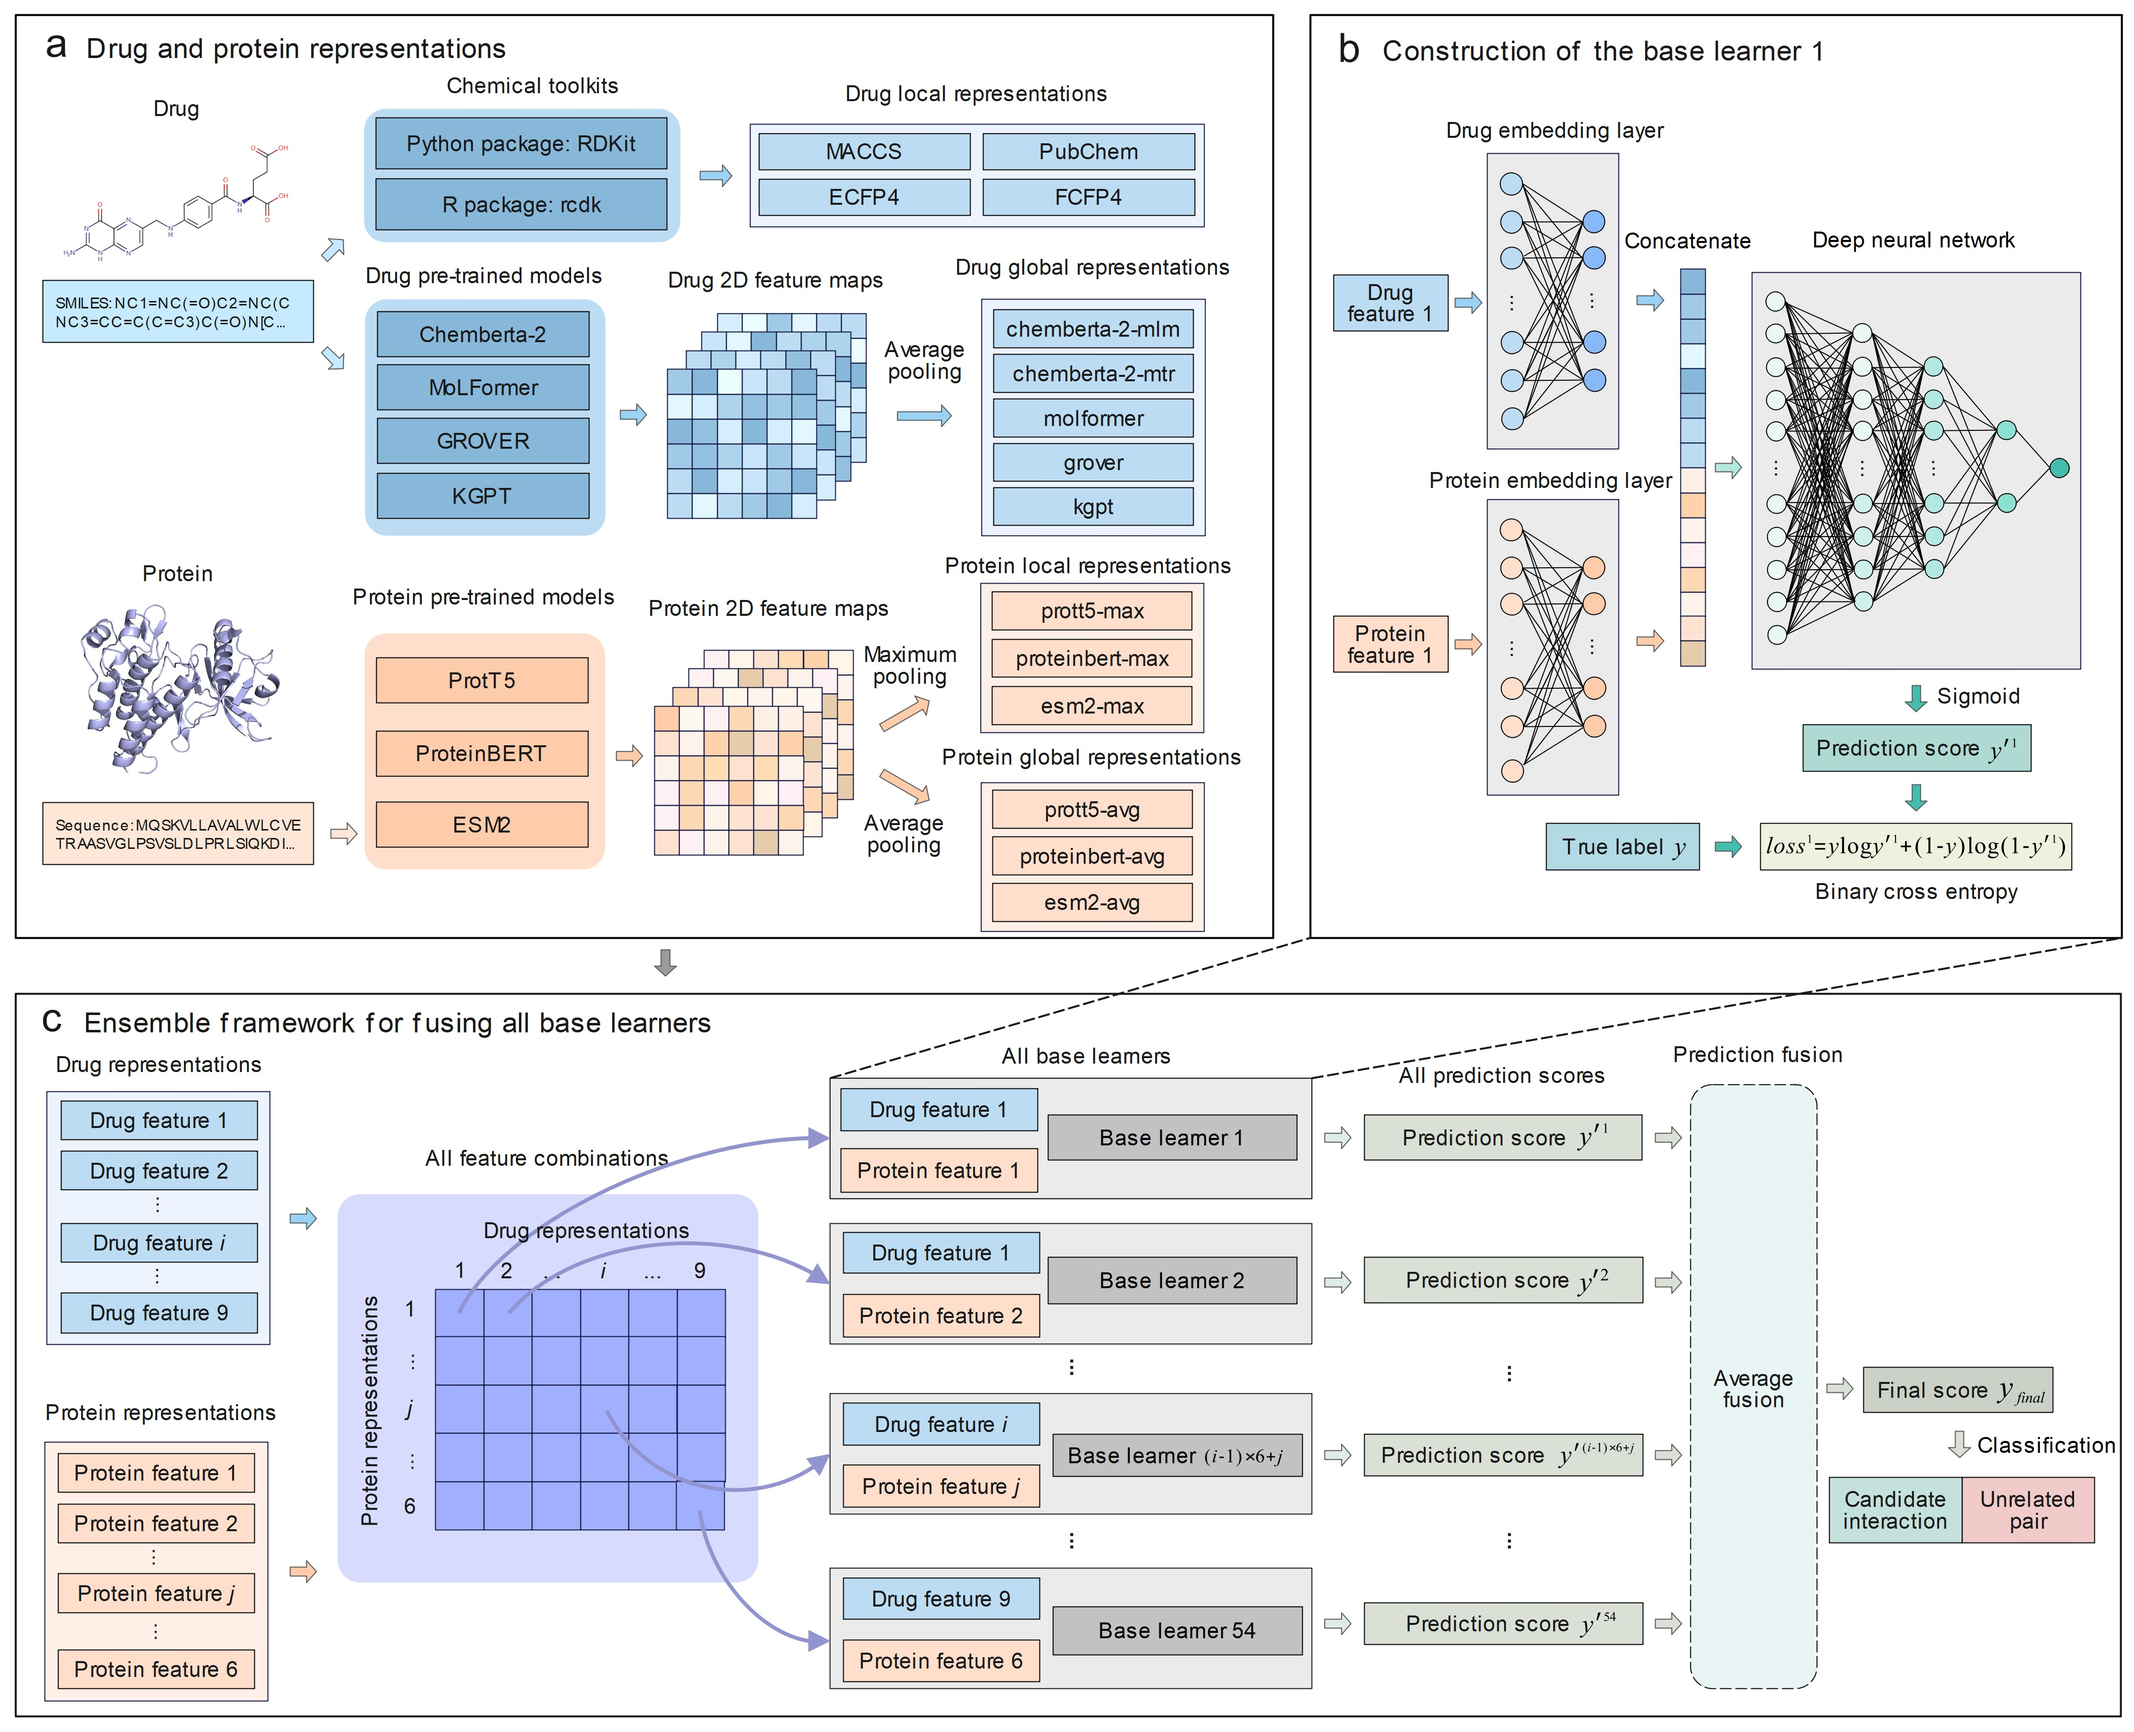
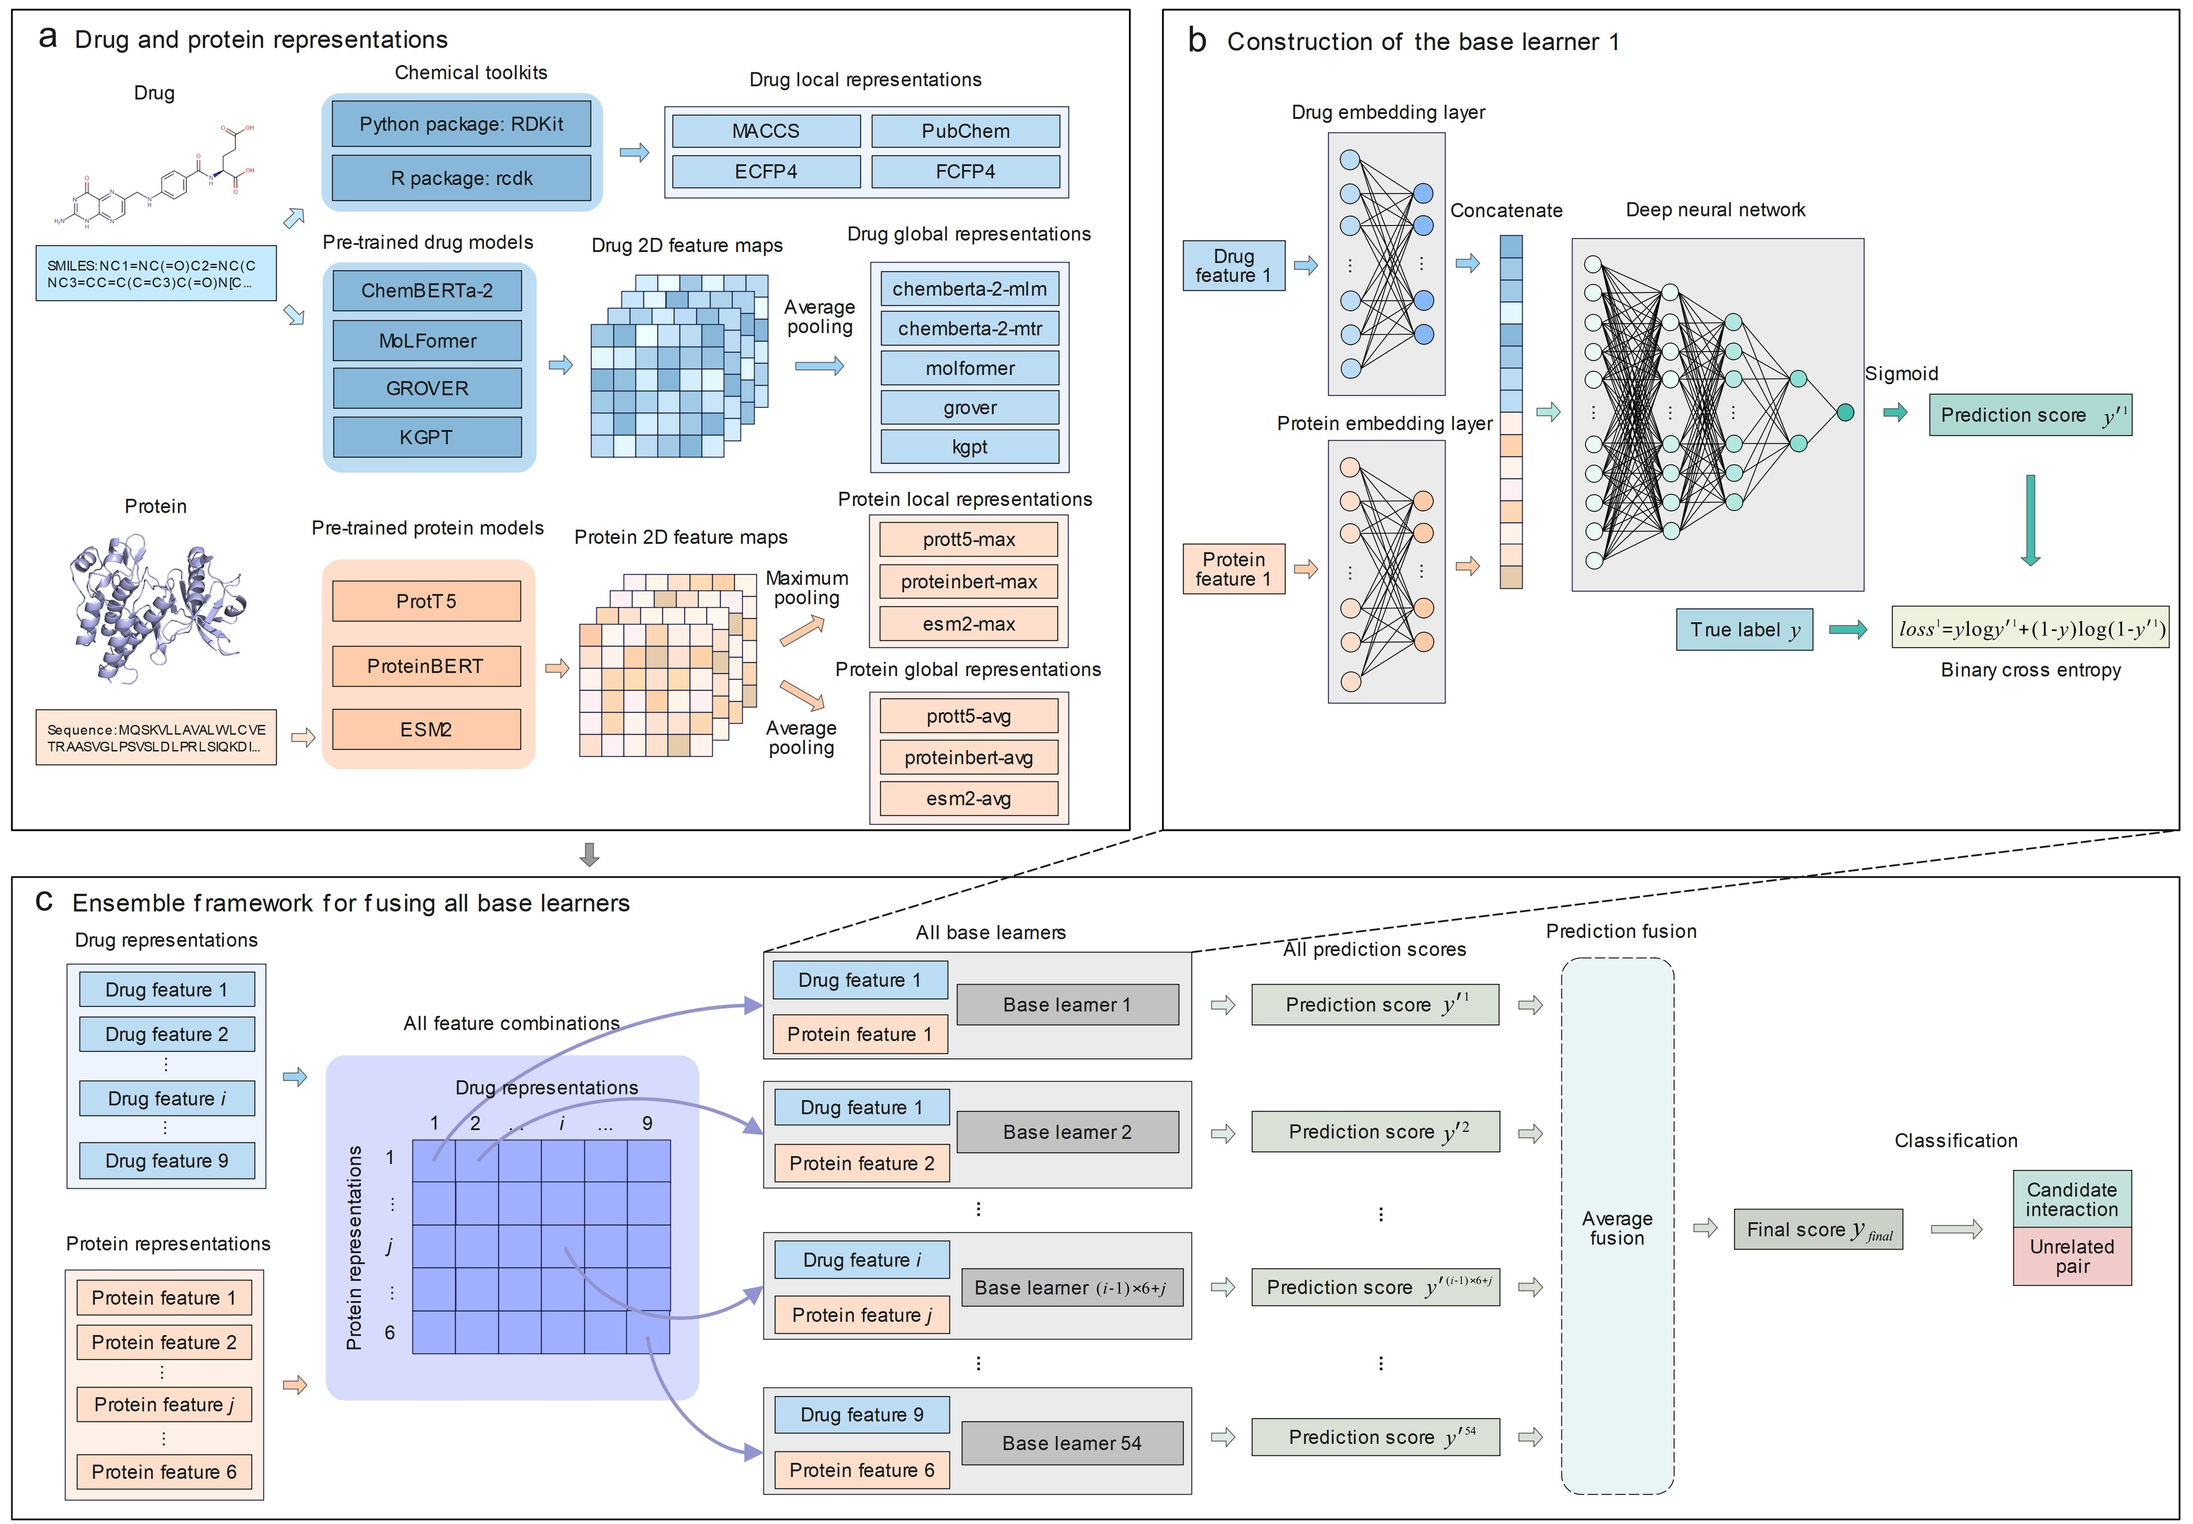
Update

Changed region(s): [[0.0, 0.0, 0.9961, 0.9993]]

diff --git a/README.md b/README.md
@@ -131,4 +131,4 @@ For the runtime environment of all pre-trained models and to download the pre-tr
 
 ## Supplement
 Some data are too large (such as the features of compounds in the CPI dataset), so this part of the data is not directly available in this GitHub repository. You can generate it using the code we provide.  
-If you have any questions, please contact 6191611021@stu.jiangnan.edu.cn
+If you have any questions, please contact us
